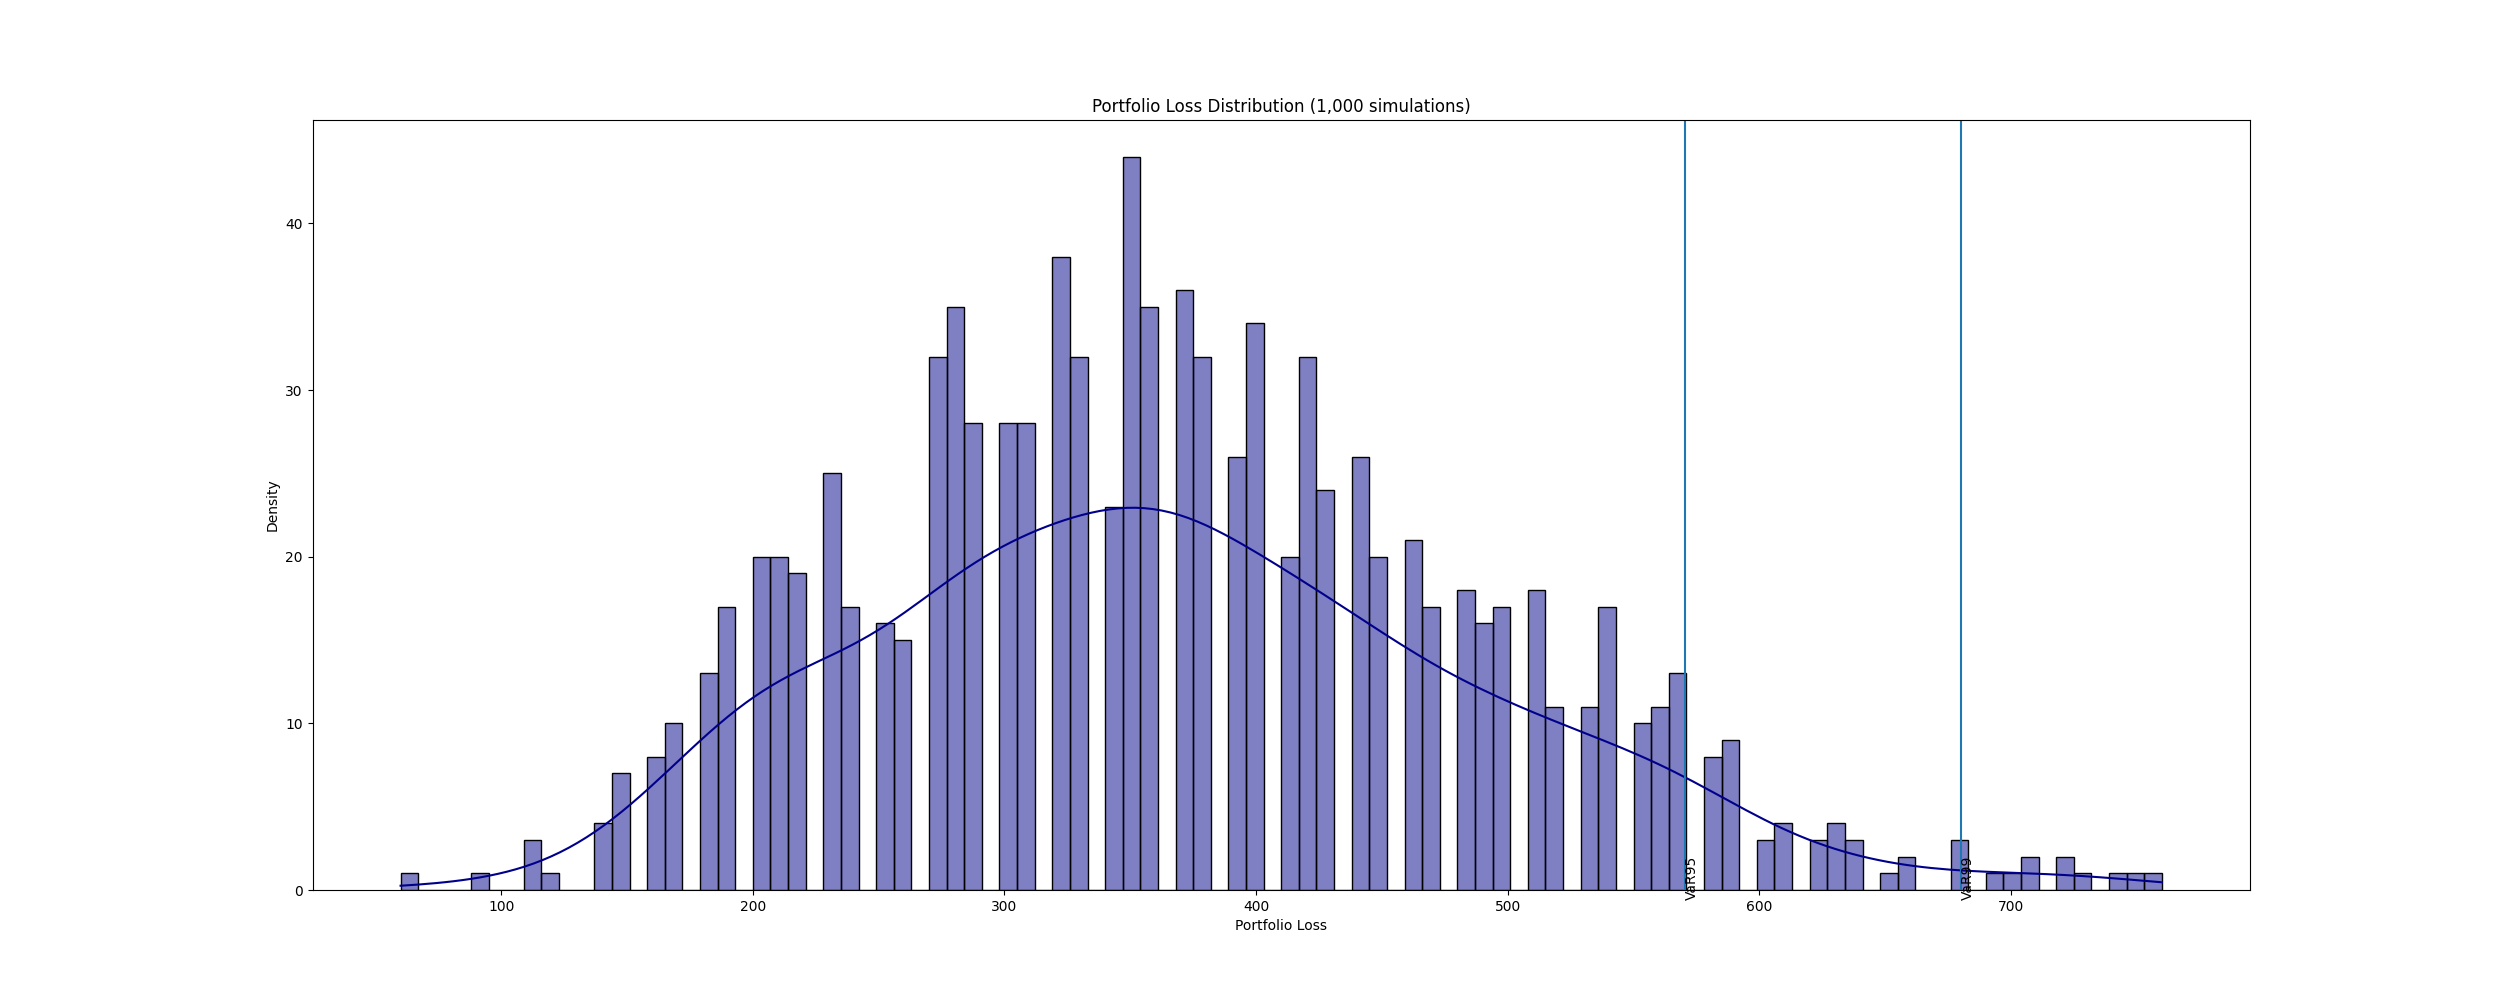
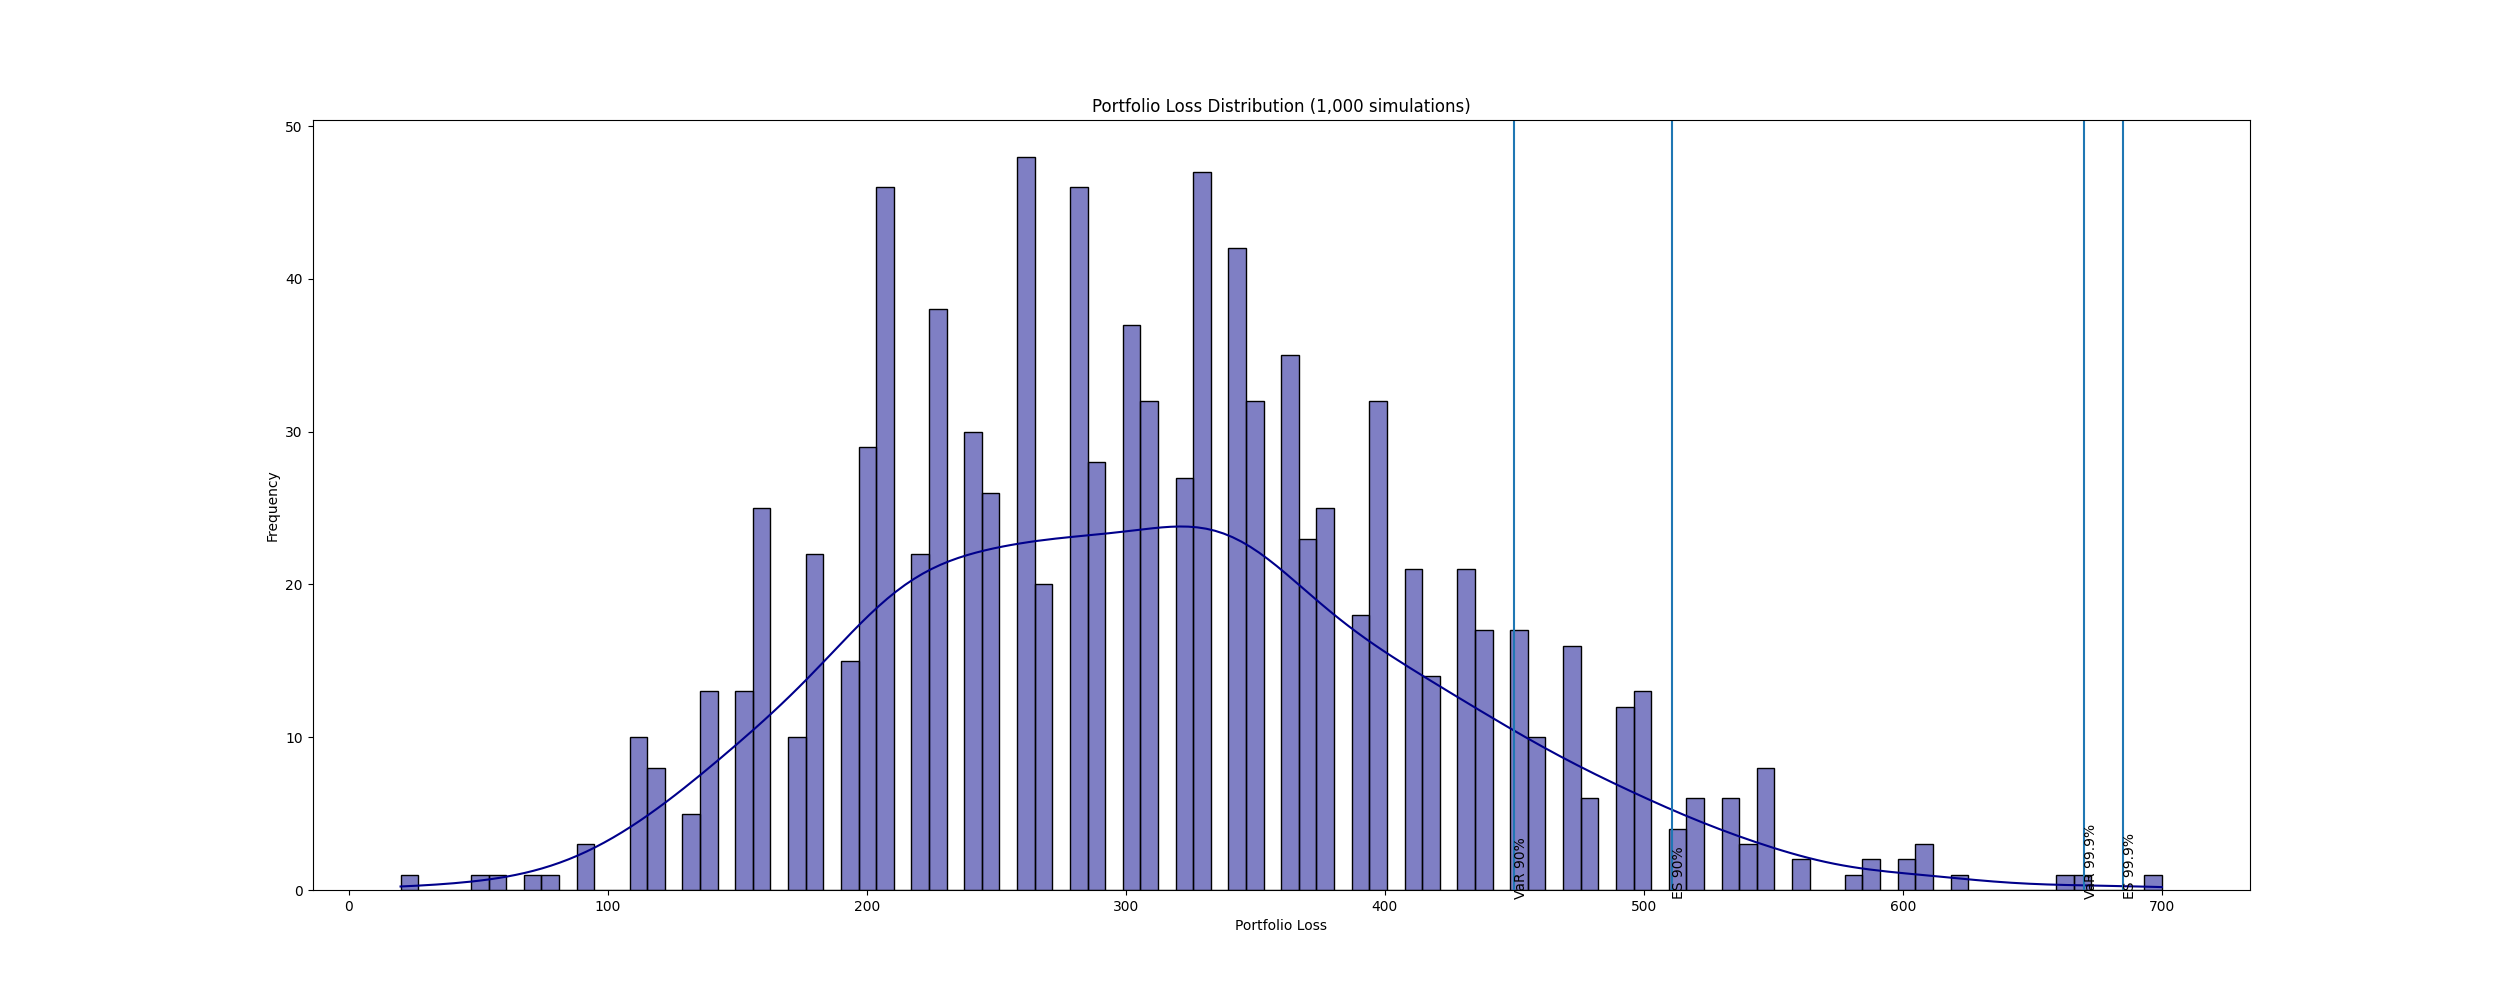
Added Expected Shortfall

Changed region(s): [[0.156, 0.155, 0.8736, 0.899]]

diff --git a/code/single_factor_model.py b/code/single_factor_model.py
@@ -22,7 +22,7 @@ df = pd.read_csv('export/factor_sensitivities.csv', index_col=0)
 # Monte Carlo simulation
 PORTFOLIO_LOSS = list()
 Z = normal(loc=0.0, scale=1.0)
-simulations = 100_000
+simulations = 1000
 
 for i in range(simulations):
 
@@ -56,12 +56,24 @@ for i in range(simulations):
 
 # ==============================================================================================================================================
 
-# Calculating Value-at-Risk (VaR) at 95% and 99% confidence intervals
+# Calculating Value-at-Risk (VaR) and Expected Shortfall (ES) at 95% and 99% confidence intervals
 
-VaR_95 = np.percentile(PORTFOLIO_LOSS, 95)
-VaR_99 = np.percentile(PORTFOLIO_LOSS, 99)
+VaR_90 = np.percentile(PORTFOLIO_LOSS, 90)
+VaR_i = 0
+steps_i = np.linspace(90, 100, 10_000)
+for i in steps_i:
+    VaR_i += (np.percentile(PORTFOLIO_LOSS, i))
+ES_90 = VaR_i/10_000
 
+VaR_999 = np.percentile(PORTFOLIO_LOSS, 99.9)
+VaR_j = 0
+steps_j = np.linspace(99.9, 100, 10_000)
+for j in steps_j:
+    VaR_j += (np.percentile(PORTFOLIO_LOSS, j))
+ES_999 = VaR_j/10_000
 # ==============================================================================================================================================
+
+print(PORTFOLIO_LOSS)
 
 # Plotting the portfolio loss distribution
 
@@ -69,13 +81,17 @@ plt.figure(figsize=(25, 10))
 # plt.hist(PORTFOLIO_LOSS, bins=100)
 sns.histplot(PORTFOLIO_LOSS, kde=True, bins=100,
              color='darkblue')
-plt.axvline(VaR_95)
-plt.text(VaR_95, -0.4, 'VaR95', rotation=90)
-plt.axvline(VaR_99)
-plt.text(VaR_99, -0.4, 'VaR99', rotation=90)
+plt.axvline(VaR_90)
+plt.text(VaR_90, -0.4, 'VaR 90%', rotation=90)
+plt.axvline(VaR_999)
+plt.text(VaR_999, -0.4, 'VaR 99.9%', rotation=90)
+plt.axvline(ES_90)
+plt.text(ES_90, -0.4, 'ES 90%', rotation=90)
+plt.axvline(ES_999)
+plt.text(ES_999, -0.4, 'ES 99.9%', rotation=90)
 plt.xlabel('Portfolio Loss')
-plt.ylabel('Density')
-plt.title('Portfolio Loss Distribution (100,000 simulations)')
+plt.ylabel('Frequency')
+plt.title('Portfolio Loss Distribution (1,000 simulations)')
 plt.savefig(os.path.join(HOME, 'export',
-            'portfolio_loss_distribution_100000.png'))
+            'portfolio_loss_distribution_1000.png'))
 plt.show()
